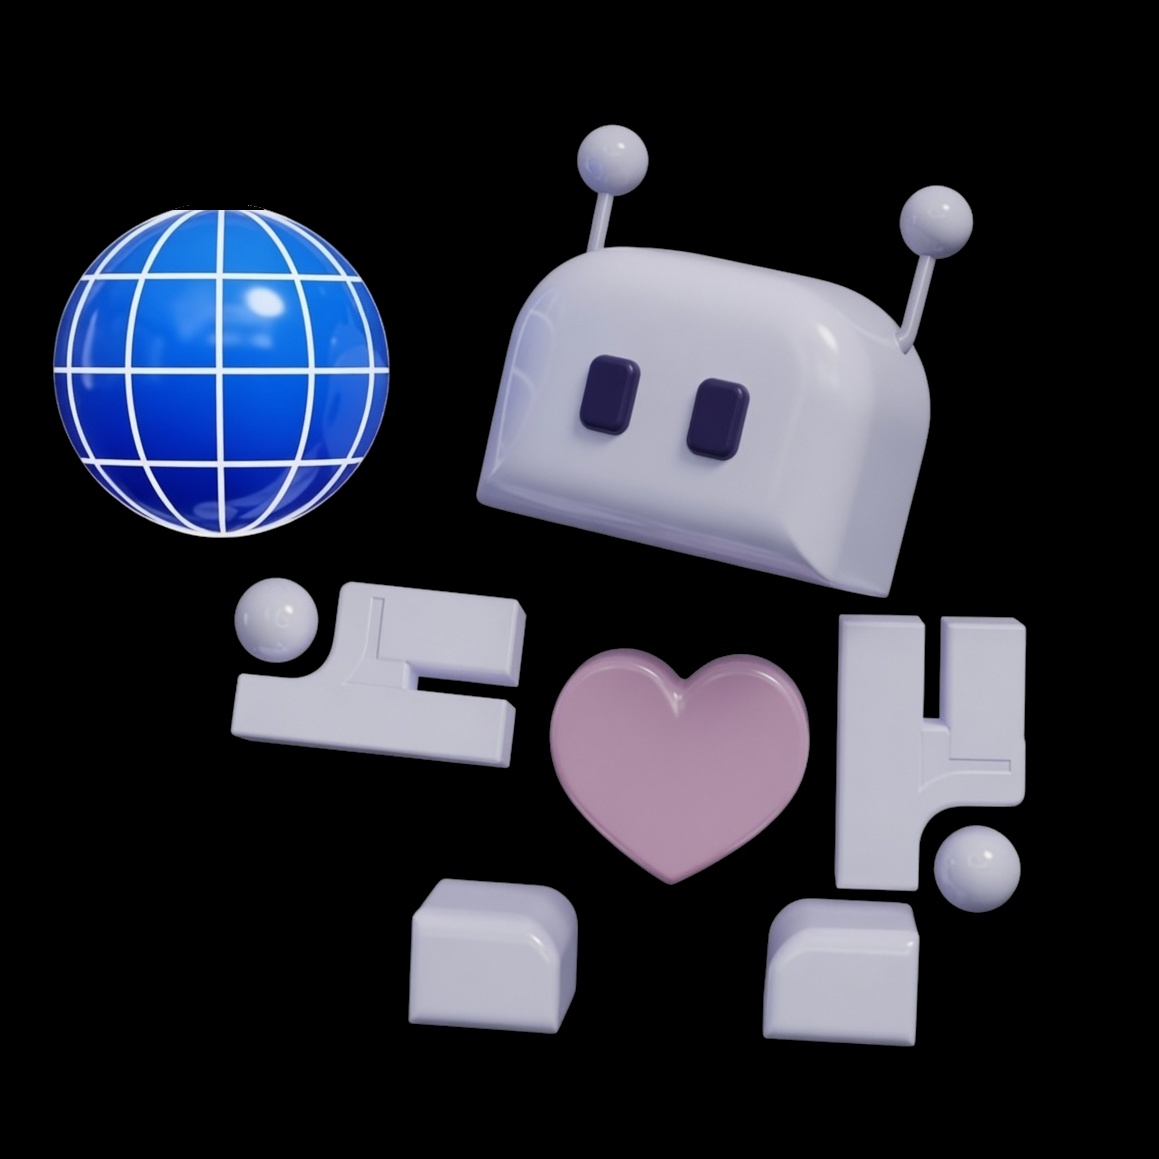
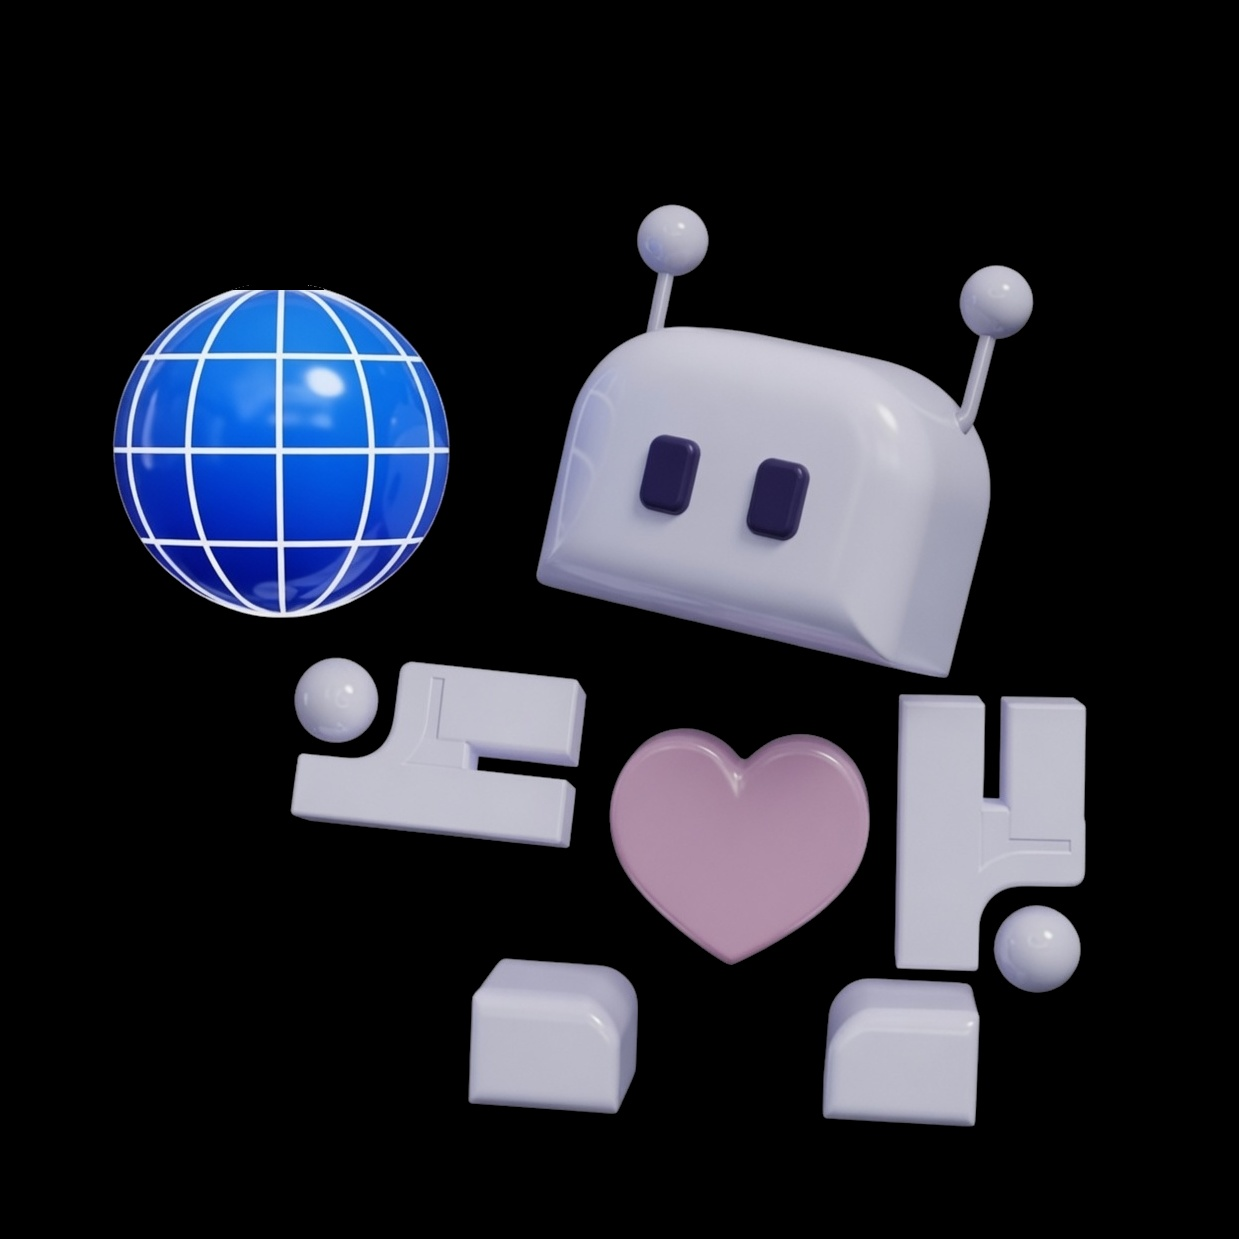
fix(open-web-vectors): uncut the top of the globe
Erase the leftover cap from the old globe position and add headroom
so the orb is no longer clipped at the top of the still.

Changed region(s): [[0.0311, 0.0932, 0.9008, 0.9318], [0.3417, 0.7455, 0.528, 0.9008], [0.497, 0.6833, 0.528, 0.7144]]

diff --git a/site/templates/open-web-vectors.html b/site/templates/open-web-vectors.html
@@ -64,8 +64,8 @@
         </g>
       </svg>
       <div class="owv-orbit-scrim"></div>
-      <img class="owv-orbit-robot" src="/images/robot-orbit-520.webp?v=orb2"
-           srcset="/images/robot-orbit-320.webp?v=orb2 320w, /images/robot-orbit-520.webp?v=orb2 520w"
+      <img class="owv-orbit-robot" src="/images/robot-orbit-520.webp?v=orb3"
+           srcset="/images/robot-orbit-320.webp?v=orb3 320w, /images/robot-orbit-520.webp?v=orb3 520w"
            sizes="200px" width="520" height="520" alt="" loading="lazy" decoding="async">
     </div>
     <div class="container">
@@ -483,7 +483,7 @@
        the right). Centering it in the orbit shoved the heart and the right
        hand off the hero's overflow:hidden right edge. */
     left: 47%;
-    top: 50%;
+    top: 52%;
     /* 34% -> 59.5%: 1.75x. The robot is the subject now that the satellites
        are gone, so it carries the composition rather than sitting inside it. */
     width: 59.5%;
